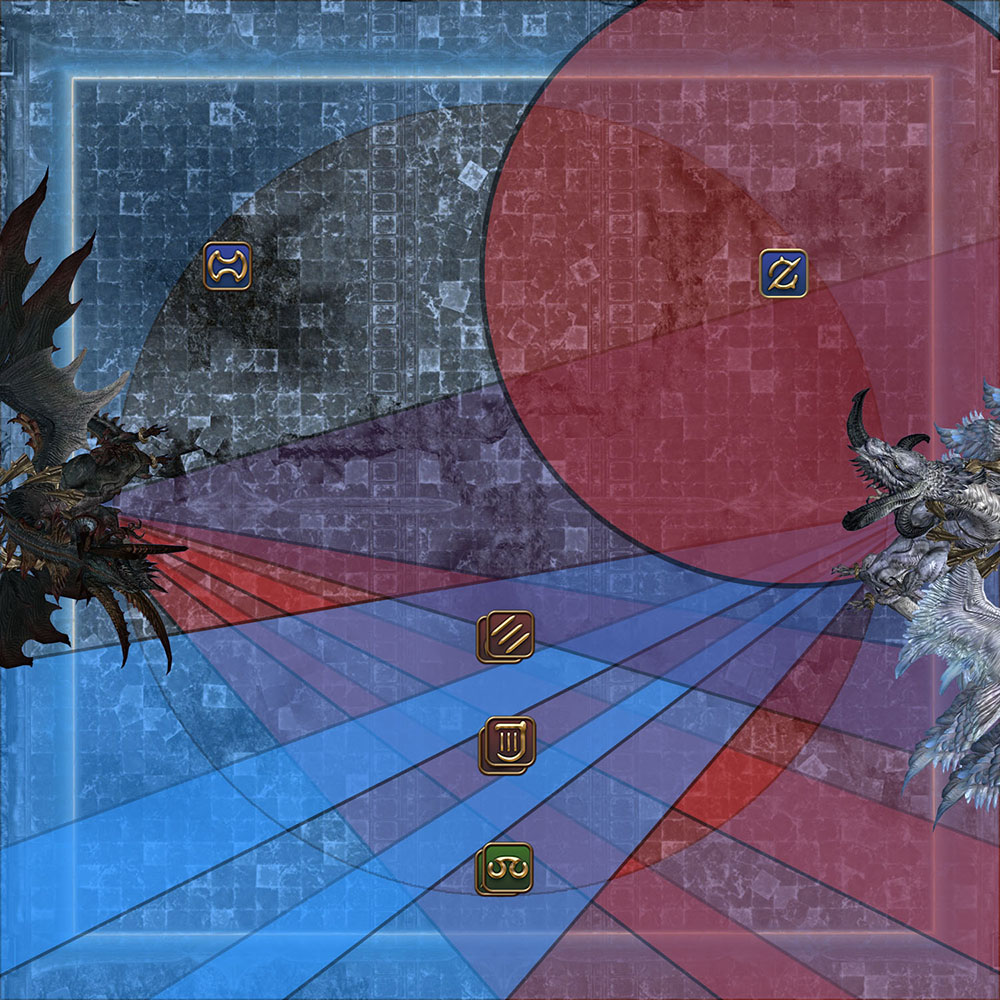
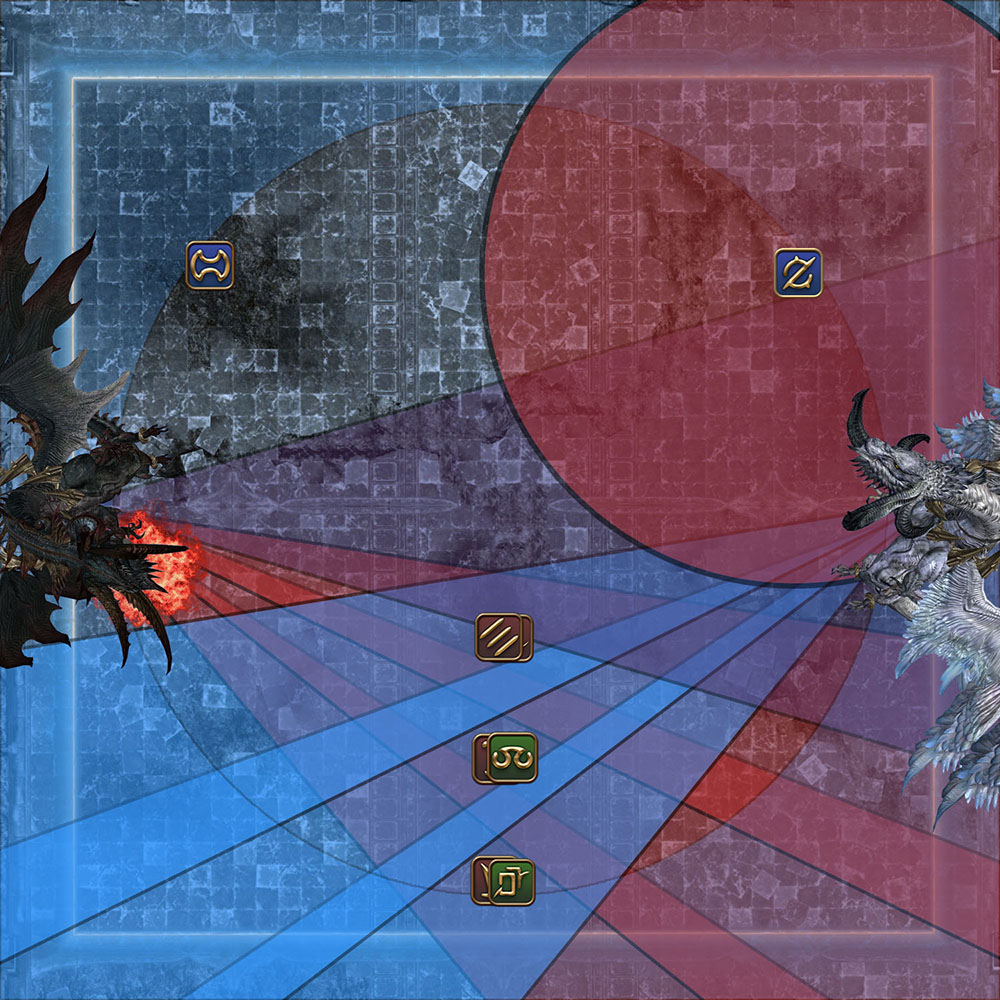
Vow passes and WB2 updated

diff --git a/guides/ultimates/DSR.md b/guides/ultimates/DSR.md
@@ -792,7 +792,7 @@ ___
 Set of attacks from *Hraesvelgr*:
 
   + **<u>Ice Breath</u>**:
-  3 non-Tank player will get tethered to *Hraesvelgr*. The tether can be strech to switch the colour from purple to blue, dealing lethal damage if the tether is purple.  
+  3 non-Tank player will get tethered to *Hraesvelgr*. The tether can be strech to switch the colour from purple to blue, dealing higher damage if the tether is purple.  
   At the end of the cast, *Hraesvelgr* will attack these players with a cone dealing <span class='magic'>magical damage</span>, applying a <span class='debuff'>Ice Resistance Down II</span>, <span class='debuff'>Physical Vulnerability Up</span> and a <span class='speDebuff'>Freezing</span> debuff.  
 
     <span class='speDebuff'>Freezing</span> <img class='iconImg' src='{{ site.data.iconList.DSR.Freezing }}'> lasts 11 seconds. When it resolves, it becomes <span class='speDebuff'>Deep Freeze</span> <img class='iconImg' src='{{ site.data.iconList.DSR.DeepFreeze }}'> preventing any movements for 30 seconds. <span class='speDebuff'>Freezing</span> can be cleansed if the player receive <span class='speDebuff'>Boiling</span> from *Nidhogg*.
@@ -813,7 +813,7 @@ ___
 Set of attacks from *Nidhogg*:
 
   + **<u>Fire Breath</u>**:
-  3 non-Tank player will get tethered to *Nidhogg*. The tether can be strech to switch the colour from purple to red, dealing lethal damage if the tether is purple.  
+  3 non-Tank player will get tethered to *Nidhogg*. The tether can be strech to switch the colour from purple to red, dealing higher damage if the tether is purple.  
   At the end of the cast, *Nidhogg* will attack these players with a cone dealing <span class='magic'>magical damage</span>, applying a <span class='debuff'>Fire Resistance Down II</span>, <span class='debuff'>Physical Vulnerability Up</span> and a <span class='speDebuff'>Boiling</span> debuff.  
 
     <span class='speDebuff'>Boiling</span> <img class='iconImg' src='{{ site.data.iconList.DSR.Boiling }}'> lasts 11 seconds. When it resolves, it becomes <span class='speDebuff'>Pyretic</span> <img class='iconImg' src='{{ site.data.iconList.DSR.Pyretic }}'> dealing high damage when any action is performed for 30 seconds. <span class='speDebuff'>Boiling</span> can be cleansed if the player receive <span class='speDebuff'>Freezing</span> from *Hraesvelgr*.
@@ -917,7 +917,7 @@ Example with only *Nidhogg* 's mouth glowing:
 {% include slideshow.html imgLink="wyrmbreath1-1.jpg;wyrmbreath1-2.jpg" imgDesc="Tanks check the dragons' mouths, DPS/Healers South and form an Ice/Fire pair;Tanks spread and avoid the breath" slideNumber=slideCounter %}
 
 Right after, the DPS have to spread to avoid clipping other people when one of them receives <span class='speDebuff'>Mortal Vow</span>. The order to pass the debuff is the following:  
-  Melee 1 > Tank 1 > Melee 2 > Tank 2 > Phys Ranged (if the DPS in 3rd or 5th got the debuff first, they swap their position with the DPS in 1st)
+  DPS > Nidhogg Tank > Hraesvelgr Tank > Melee DPS 1 (or 2) > Phys Ranged DPS (if the Melee DPS 1 got the debuff first, Melee DPS 2 will replace him for the third pass)
 
 Next is **Akh Afah**, split into light party and keep the bosses HP difference within 3%. It deals high damage so mitigate propery.
 
@@ -934,7 +934,7 @@ Identify and move into the safe quadrant, then check *Hraesvelgr* head for **Hal
 {% assign slideCounter = slideCounter | plus: 1 %}
 {% include slideshow.html imgLink="halloFrontDown.jpg;halloFrontUp.jpg;halloRearDown.jpg;halloRearUp.jpg" imgDesc="<strong>Cauterize</strong> on front row with <em>Hraesvelgr</em> head down;<strong>Cauterize</strong> on front row with <em>Hraesvelgr</em> head up;<strong>Cauterize</strong> on back row with <em>Hraesvelgr</em> head down;<strong>Cauterize</strong> on back row with <em>Hraesvelgr</em> head up" slideNumber=slideCounter %}
 
-Quickly make some space so the DPS with <span class='speDebuff'>Mortal Vow</span> can pass it to *Nidhogg* 's Tank.
+Quickly make some space middle so the DPS with <span class='speDebuff'>Mortal Vow</span> can pass it to *Nidhogg* 's Tank there.
 
 Now, *Nidhogg* will cast **Wroth Flames** and *Hraesvelgr* will leave the arena for **Cauterize**. At the same time, 4 players will receive <span class='speDebuff'>Spreading Flames</span> and 2 other will get <span class='speDebuff'>Spreading Flames</span>. Futhermore, 3 sets of orbs will spawn with the first one middle and the two other on opposite intercardinal.  
 First, find *Hraesvelgr* and where he'll dive through. If he dives mid or away from *Nidhogg* side, you can move all grouped together, next to him, to the intercardinal corner opposite of the second set of orbs, either diagonally or vertically. Otherwise, move away from *Nidhogg* but still to the intercardinal corner opposite of the second set.  
@@ -957,7 +957,7 @@ Then the <span class='speDebuff'>Spreading Flames</span> players will spread on 
 {% assign slideCounter = slideCounter | plus: 1 %}
 {% include slideshow.html imgLink="hotTail.jpg;hotWing.jpg" imgDesc="Spread on the side;Spread middle" slideNumber=slideCounter %}
 
-It's time for the second <span class='speDebuff'>Mortal Vow</span> pass where *Nidhogg* 's Tank gives it to the 2nd Melee DPS.
+It's time for the second <span class='speDebuff'>Mortal Vow</span> pass where *Nidhogg* 's Tank gives it to *Hraesvelgr* 's Tank.
 
 A new **Akh Afah** will be casted, do the same as previously. This is the last **Akh Afah** of the fight so there is no need to worry about their HP difference afterward.
 
@@ -968,16 +968,24 @@ Then *Hraesvelgr* will cast **Hallowed Wings** and *Nidhogg* will cast **Hot Tai
 {% assign slideCounter = slideCounter | plus: 1 %}
 {% include slideshow.html imgLink="halloWingDown.jpg;halloWingUp.jpg;halloTailDown.jpg;halloTailUp.jpg" imgDesc="<strong>Hot Wing</strong> with <em>Hraesvelgr</em> head down;<strong>Hot Wing</strong> with <em>Hraesvelgr</em> head up;<strong>Hot Tail</strong> with <em>Hraesvelgr</em> head down;<strong>Hot Tail</strong> with <em>Hraesvelgr</em> head up" slideNumber=slideCounter %}
 
-Once again, quickly clear a spot so the DPS with <span class='speDebuff'>Mortal Vow</span> can pass it to *Hraesvelgr* 's Tank.
+Once again, quickly clear a spot so the *Hraesvelgr* 's Tank can pass <span class='speDebuff'>Mortal Vow</span> to the Melee DPS. Always pass it to the same Melee DPS except if he got the debuff first, then pass it to the second Melee DPS.
 
-The second set of **Dread Wyrmsbreath** and **Great Wyrmsbreath** will happen. This time the Healers and DPS need to keep their debuffs on, so they will take their **Ice/Fire Breath** alone. Players tethered to *Hraesvelgr* will spead betwen the South and South West while the players tethered to *Nidhogg* will spread between the North and North East. Try to let the Melees move strech their tether to the opposite boss so they can keep uptime.  
-The Tanks will either stack mid if both dragon mouths are glowing or they'll move right of their respective bosses to avoid the **Dark/Holy Breath**, **Ice/Fire Breaths** and take **Staggering Breath** alone.
+The second set of **Dread Wyrmsbreath** and **Great Wyrmsbreath** will happen. The Tanks will either stack mid if both dragon mouths are glowing or they'll move to their respective bosses to avoid the **Dark/Holy Breath**, **Ice/Fire Breaths** and take **Staggering Breath** alone.  
+This time the Healers and DPS need to keep their debuffs on, so they will take their **Ice/Fire Breath** alone at fixed position. Based on your position and the tether you get, it may stay purple but will only deal slightly more damage. Check the next diagrams to see the positions:
 
 Example with only *Hraesvelgr* 's mouth glowing:
 {% assign slideCounter = slideCounter | plus: 1 %}
-{% include slideshow.html imgLink="wyrmbreath2-1.jpg;wyrmbreath2-2.jpg" imgDesc="Tanks check the dragons' mouths, Ice tethers South and Fire tethers North.;Tanks spread and avoid the breath" slideNumber=slideCounter %}
+{% include slideshow.html imgLink="wyrmbreath2-1.jpg;wyrmbreath2-2.jpg" imgDesc="Tanks check the dragons' mouths, everyone moves their fixed positions;Tanks spread and avoid the breath" slideNumber=slideCounter %}
 
-After everything resolve, both wryms will leave and reappear North or South for **Cauterize**. Players with <span class='speDebuff'>Boiling</span> will move on *Hraesvelgr* side while the players with <span class='speDebuff'>Freezing</span> will move on *Nidhogg* side. The Tanks will move in front of the group and their respective bosses and use their invulnerability. They can also use the rest of their mitigation tools and keep their invulnarabilities for the last phase.  
+Here is more information about the positions if you're on:
+
++ Green: North and South along the **Swirling Blizzard**.
++ Purple: In the corner formed by **Swirling Blizzard** and the line of stones shown in orange.
++ White: Use the bleached stones shown by the white arrows as a cue.
++ Yellow: In the corner formed by **Swirling Blizzard** and the boss inner-hitbox.
+<img class='soloImg' src='{{ page.imagePath | append: 'wyrmbreath2pos.jpg' }}'>
+
+After everything resolve, both wryms will leave and reappear North for **Cauterize**. Players with <span class='speDebuff'>Boiling</span> will move on *Hraesvelgr* side while the players with <span class='speDebuff'>Freezing</span> will move on *Nidhogg* side. The Tanks will move in front of the group and their respective bosses and use their invulnerability. They can also use the rest of their mitigation tools (that can carry over from the previous tankbuster) and keep their invulnarabilities for the last phase.  
 Right before **Cauterize** happens, the debuffs will swap into <span class='speDebuff'>Pyretic</span> and <span class='speDebuff'>Deep Freeze</span> and will be removed if the players are on the correct side. If you end up with <span class='speDebuff'>Pyretic</span>, remember to not perform any action to avoid unnecessary damage.
 <img class='soloImg' src='{{ page.imagePath | append: 'cauterize.jpg' }}'>
 
